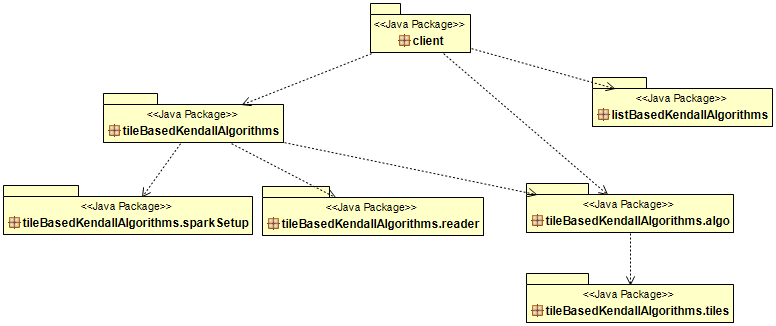
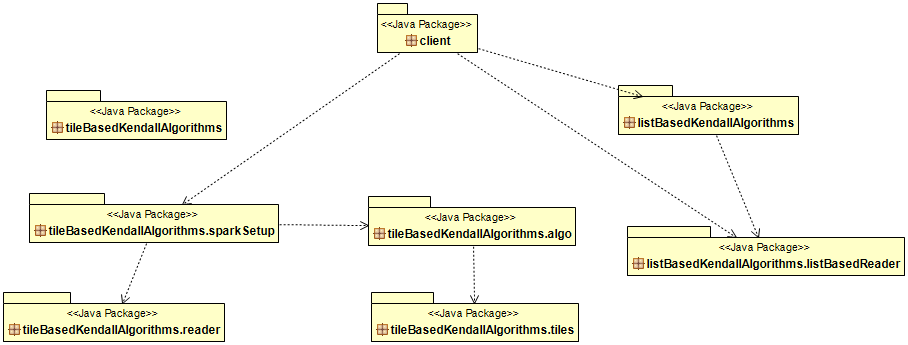
upd class and pkg diagrams

diff --git a/src/main/java/client/Client.java b/src/main/java/client/Client.java
@@ -1,6 +1,8 @@
 package client;
 
-import listBasedKendallAlgorithms.*;
+import listBasedKendallAlgorithms.IListBasedKendallCalculator;
+import listBasedKendallAlgorithms.ListBasedKendallMethodsService;
+//import listBasedKendallAlgorithms.*;
 import listBasedKendallAlgorithms.listBasedReader.ColumnPair;
 import listBasedKendallAlgorithms.listBasedReader.Reader;
 import org.apache.spark.sql.AnalysisException;
